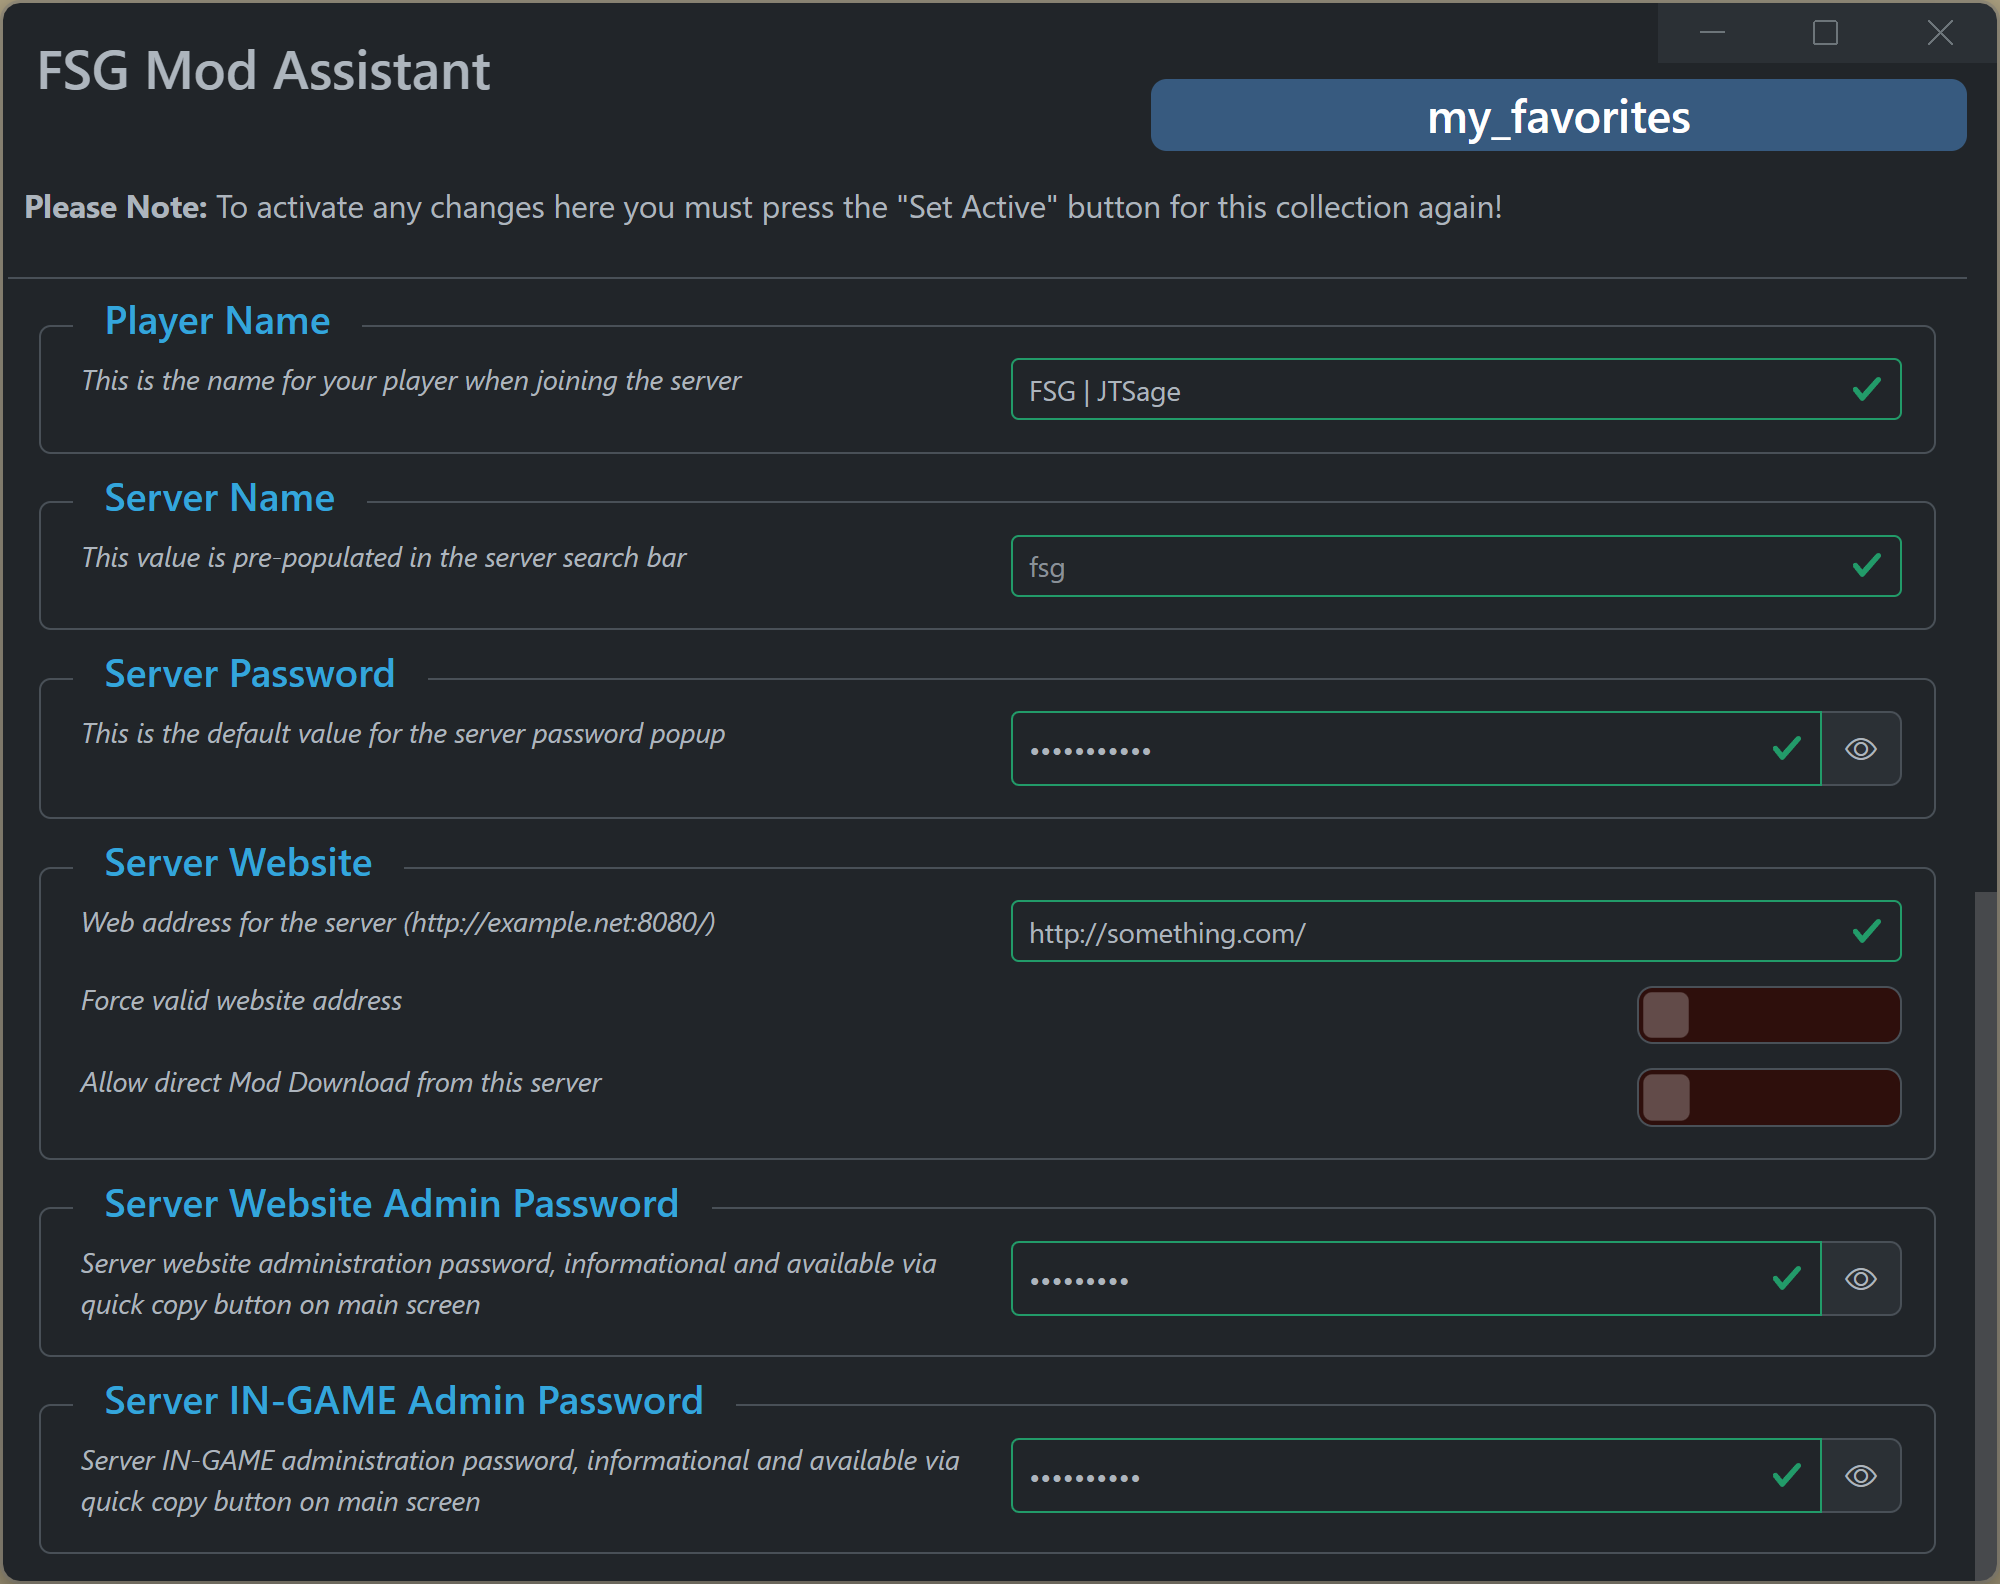
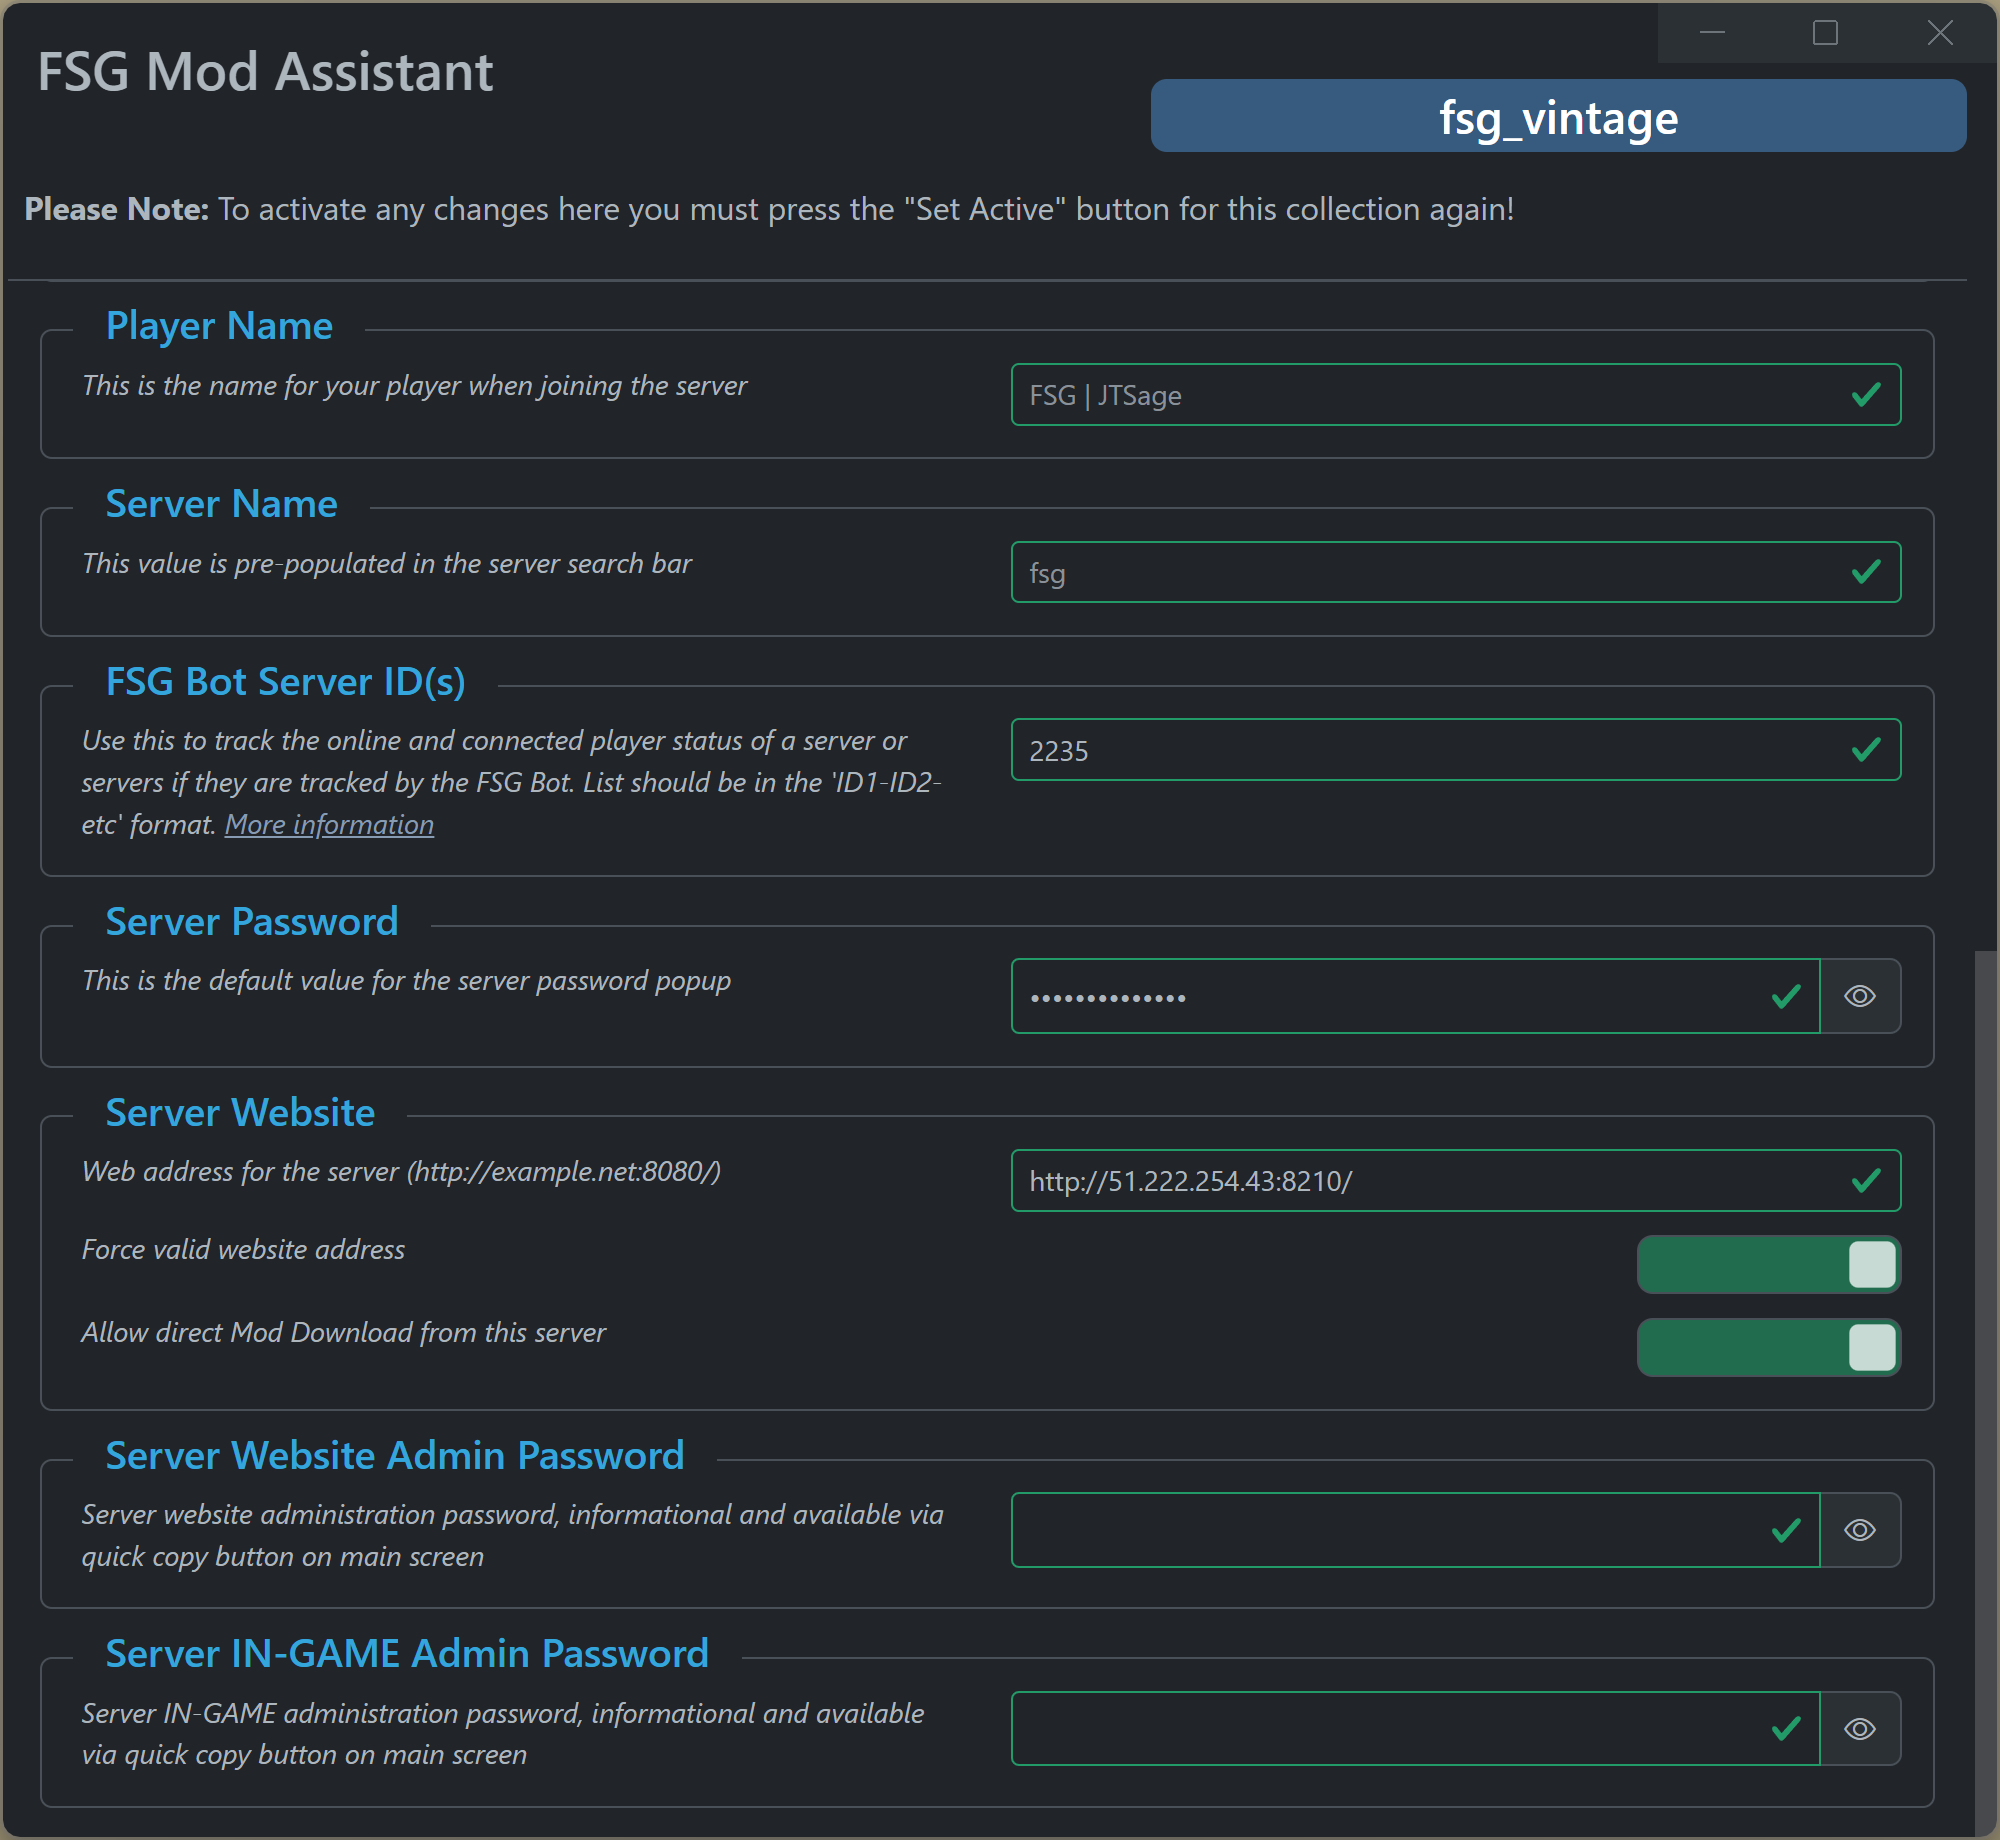
Docs update

diff --git a/renderer/notes.html b/renderer/notes.html
@@ -256,7 +256,7 @@
 				</div>
 			</div></div>
 
-			<div class="col-12"><div class="border rounded-2 p-3 h-100"><!-- username -->
+			<div class="col-12"><div class="border rounded-2 p-3 h-100"><!-- fsg bot -->
 				<div style="margin-top: -2rem;"><h5><l10n class="px-3 bg-body text-info" name="notes_title_fsg_bot"></l10n></h5></div>
 				<div class="row">
 					<div class="col-6 ps-3 small fst-italic">

diff --git a/lib/modAssist_window_lib.js b/lib/modAssist_window_lib.js
@@ -138,6 +138,7 @@ module.exports.windowLib = class {
 			subWindowArgs   : { preload : 'notesWindow' },
 			callback        : (windowArgs) => { this.sendModList(windowArgs, 'fromMain_collectionName', 'notes', false ) },
 			refocusCallback : true,
+			handleURLinWin  : true,
 			extraCloseFunc  : () => { this.#refFunc.refreshClientModList() },
 		},
 		version : {

diff --git a/docs/fsgbot.md b/docs/fsgbot.md
@@ -1,0 +1,46 @@
+# FSG Mod Assistant - FSG Bot Integration HowTo
+
+The Farm Sim Game discord bot is a comprehensive Discord Bot and Web Site system - some of the key features are:
+
+- Live Player Stats
+  - Our servers keep track of players on your servers to display live stats with our Discord Bot.
+- Community Management
+  - We have a fully featured bot that can help you manage your Discord community.
+- Privacy Protection
+  - We are always working to improve security across our Discord Bot and servers.
+- Always Online
+  - Our servers scan dedicated servers 24/7 to keep server data up to date.
+- Player Activity
+  - View player activity on our website and display on your Discord via our custom Bot.
+- Expand your Server
+  - Expand your FS Dedicated Servers with our ever growing server profiles.
+
+For more information, you can check out the [FarmSimGame Website](https://farmsimgame.com/)!
+
+## Integration Options
+
+If a collection is intended for use on a server that is currently listed on the FarmSimGame website, you can display it's status and how many players are logged in right in the Mod Assistant interface - It looks something like this:
+
+![--](img340/fsgbot-collection.png)
+
+Notice the green bubble with a 1 in it - that lets you know the server is online, and has 1 player logged in!  You can hover over for more information
+
+![--](img340/fsgbot-collection-hover.png)
+
+### Configuration
+
+To configure this next bit, you will need the server ID (or ID's for multiple) from the FarmSimGame website.
+
+In this example, we will use the [FSG vintage server](https://www.farmsimgame.com/Server/2235) - the listing page is at `https://www.farmsimgame.com/Server/2235`, and in this case, the server ID is `2235`.
+
+Open the collection details settings with the dark blue button labeled with <i class="bi bi-journal-text"></i>
+
+![Alt text](img340/collection-entry.png)
+
+Scroll down to the FSG Bot Server ID section
+
+![--](img340/fsgbot-details.png)
+
+Enter the server ID (or IDs) here.  You should separate server ID's with a dash (e.g. `1-2-3-4`), but you can use any non-numeric character and Mod Assistant will fix it when you leave the input field.
+
+Then, close the collection detail window, and refresh your folders.  The server status will appear within a few minutes.  In order to keep the server load down, the stats are updated only once every 5 minutes or so.  The indicators are green for online, red for offline, or grey if the server ID was not recognized.

diff --git a/docs/faq.md b/docs/faq.md
@@ -68,6 +68,14 @@ Due to how windows handles the permission for creating symlinks, it is not curre
 
 ---
 
+### Can I launch the game if I have the XBox Store version of Farming Simulator?
+
+Yes, you can! In this situation, you need to set the launch path __and__ name to something different.  After opening settings, and pressing the folder icon next to the game path entry, make sure you set the file type filter (bottom right of the popup) to "all files".  Then select `gamelaunchhelper.exe` in the folder shown below.  Note that if you have installed XBox store items to a different folder or drive, the path may be different.
+
+![--](img340/gamepass-version-location.png)
+
+---
+
 ### How does the mod cache work?
 
 This app uses a mod cache based on mod file name, size, and date. As such, it only needs to scan a mod once. Unzipped mods, broken mods, and files that don't appear to be mods are not added to the cache.  The `broken mods` item is important as if you have a _lot_ of broken mods in your mod folder, it can slow down the startup of the app.

diff --git a/docs/details.md b/docs/details.md
@@ -80,6 +80,10 @@ This sets your player display name for this collection.  Only useful for multipl
 
 This sets the server name, or, more accurately, it pre-populates the multiplayer server search box with this value.  It is recommended to keep as simple as possible.
 
+#### FSG Bot ID(s)
+
+This allows you to provide one or more FarmSimGame bot ID's to track the status of on this collection. Please see [FSG Bot Integration HowTo](fsgbot.html) for more details.
+
 #### Server Password
 
 This is the password that is required to join the server.  It is **not** your farm password, or the online web based administration tool password.  Setting this will pre-populate the server join password popup box allowing you to just click OK or press enter

diff --git a/docs/collections.md b/docs/collections.md
@@ -50,7 +50,7 @@ To use a collection in the game, select it from the dropdown list at the center 
 
 Alternatively, you can right click on a collection and click `Set Active`
 
-![Right click menu](img340/right-click-collection.webp)
+![Right click menu](img340/context-collection.png)
 
 If you decide down the line to remove Mod Assistant, or wish you use the standard mod location for whatever reason, you can use the `Deactivate` button.
 

diff --git a/docs/index.md b/docs/index.md
@@ -36,6 +36,7 @@ Please note that this documentation is auto-generated, and may refer to a newer 
 - [User Preferences](preferences.html)
 - [Game Log Viewer](gamelog.html)
 - [Multiple Game Version Mode](multi-version.html)
+- [FSG Bot Integration HowTo](fsgbot.html)
 - [Frequently Asked Questions](faq.html)
 
 ## What is a Broken Mod?
